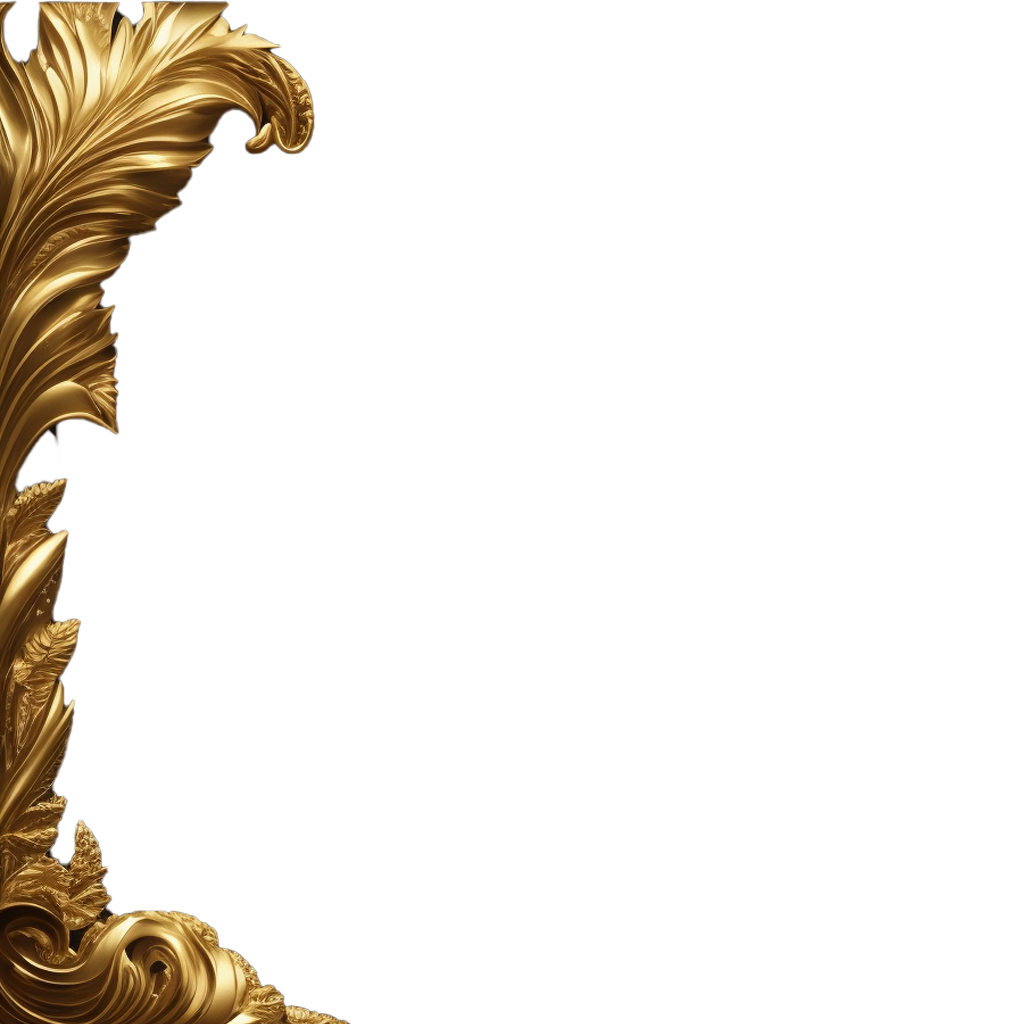
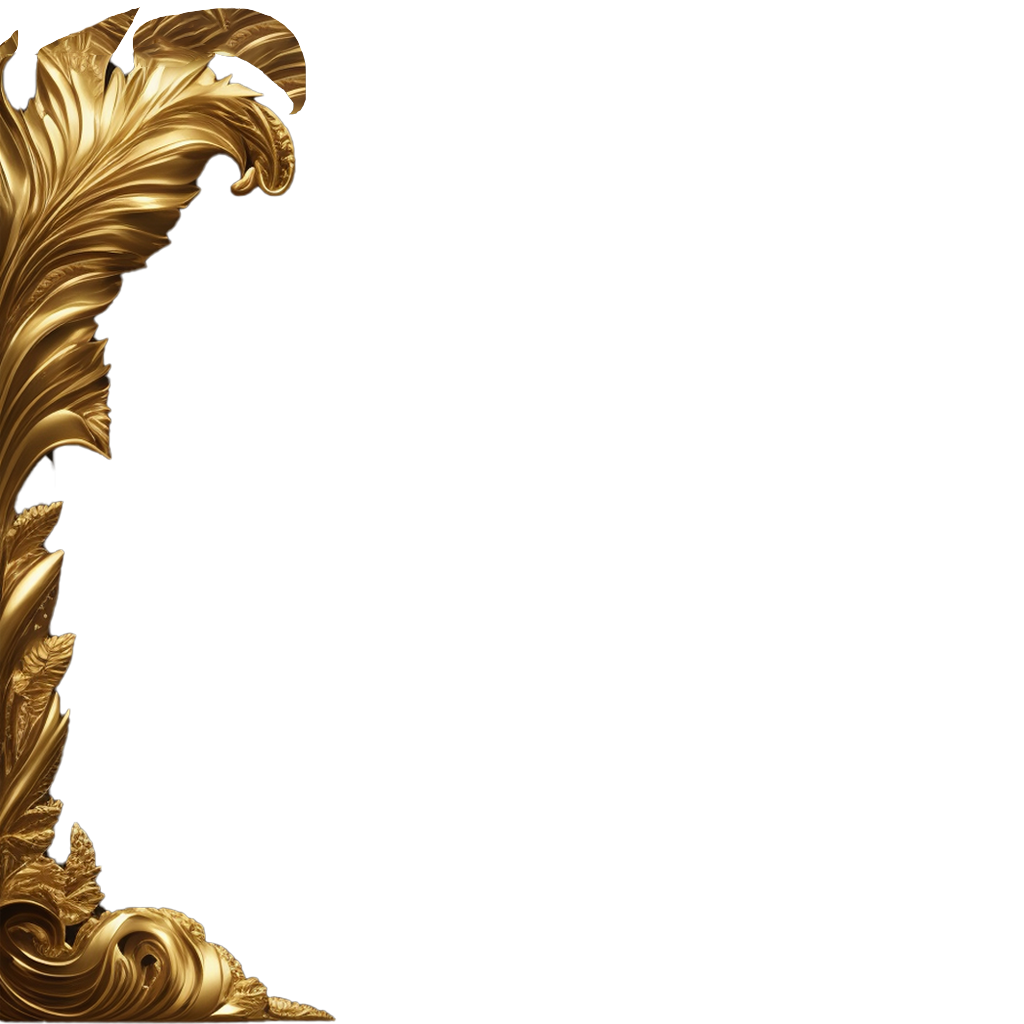
contact form update

Changed region(s): [[0.0, 0.0, 0.3438, 1.0]]

diff --git a/components/Footer.jsx b/components/Footer.jsx
@@ -17,11 +17,11 @@ const Footer = () => (
     <div className="footer-gradient" />
     <div className={`${styles.innerWidth} mx-auto flex flex-col gap-8`}>
       <div className="flex flex-col ">
-        <div className="mb-[50px] h-[2px] bg-white opacity-10" />
-        <div className="flex items-center justify-between flex-wrap gap-4">
+        <div className="mb-[50px] h-[2px] bg-white opacity-10 w-[100vw] absolute left-0" />
+        <div className="flex items-center justify-between flex-wrap gap-4 mt-[1rem]">
           <h4 className="font-extrabold text-[24px] text-white ">Lavish</h4>
-          <p className="font-normal text-[14px] text-white opacity-50">
-            Copyright © 2023 - 2022 Lavish. All rights reserved.
+          <p className="font-normal text-[14px] text-white opacity-50 text-center">
+            Copyright © 2023 Lavish. All rights reserved.
           </p>
           <div className="flex gap-4">
             {socials.map((social) => (

diff --git a/components/ContactForm.jsx b/components/ContactForm.jsx
@@ -3,8 +3,8 @@ import React from "react";
 const ContactForm = () => {
   return (
     <div className="flex flex-col gap-8 justify-center items-center">
-      <img src="/left.png" className="left-0 absolute w-[32em] z-[10]" />
-      <img src="/right.png" className="right-0 absolute w-[32em] z-[10]" />
+      <img src="/left.png" className="left-0 absolute w-[33em] z-[10]" />
+      <img src="/right.png" className="right-0 absolute w-[33em] z-[10]" />
 
       <input
         type="text"
